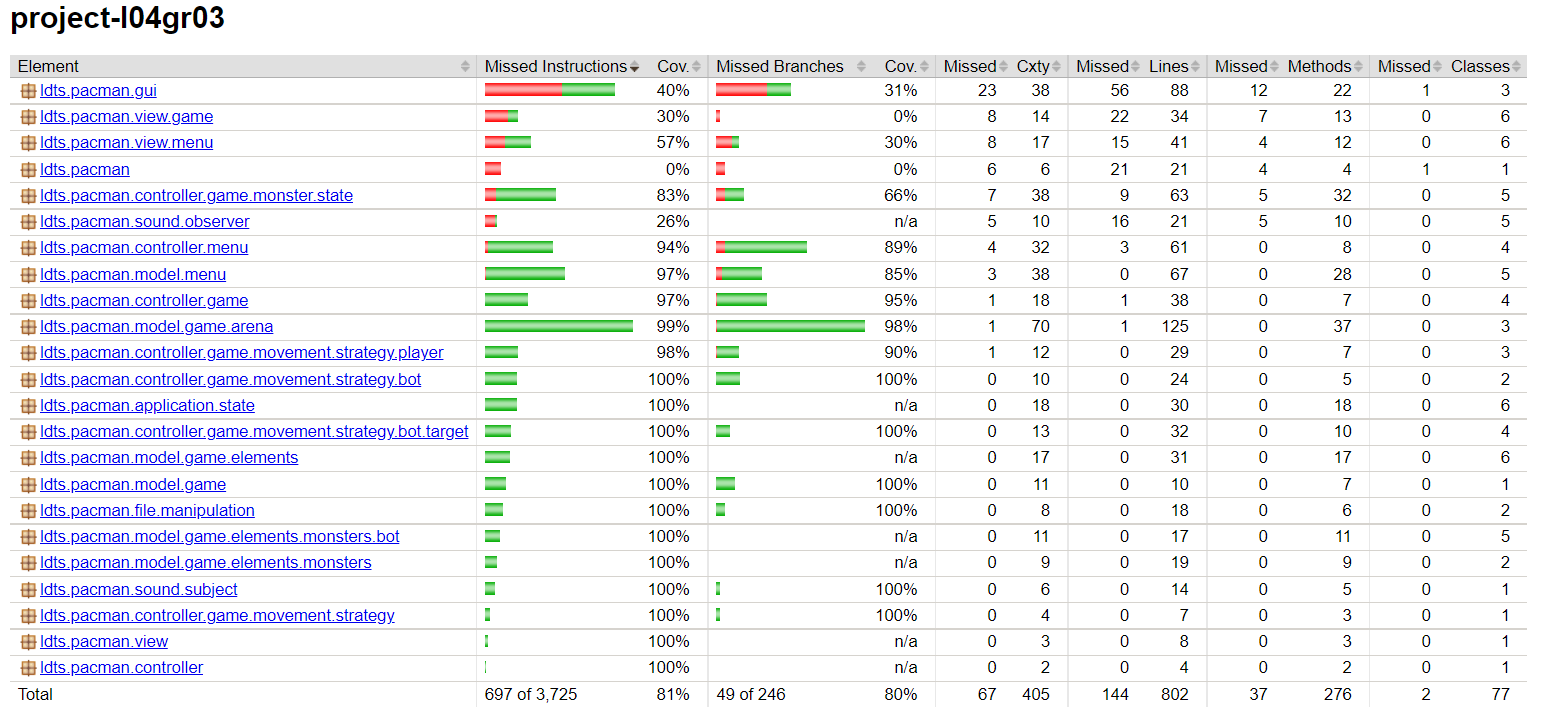
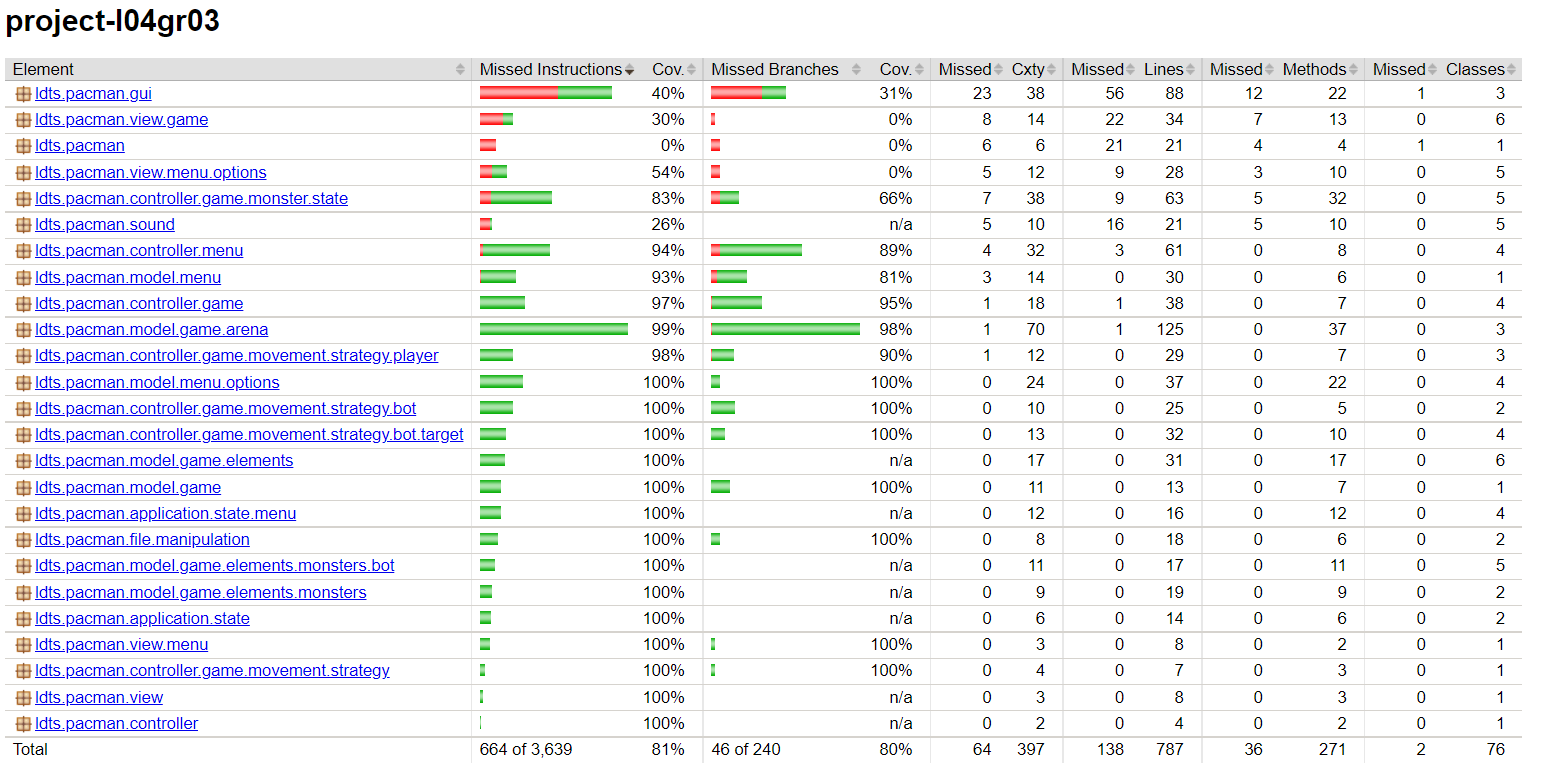
Made final adjustments to the report, updated test coverage

Changed region(s): [[0.0, 0.0, 0.9935, 0.9737]]

diff --git a/docs/README.md b/docs/README.md
@@ -272,13 +272,17 @@ We did not consider this a bad code smell, since it directly originates from the
 ### Coverage Report
 
 <p align="center" justify="center">
-  <img src="images/reports/PIP.png"  width="800"/>
+  <img src="images/reports/jacoco.png"  width="800"/>
+</p>
+
+<p align="center" justify="center">
+  <img src="images/reports/PIT.png"  width="800"/>
 </p>
 
 -[Mutation testing report](https://adriano-7.github.io/)
 
 ## SELF-EVALUATION
 
-- Adriano Machado: %
-- Félix Martins: %
-- Tomás Pereira: %
+- Adriano Machado: 35 % 
+- Félix Martins: 50 % 
+- Tomás Pereira: 15 % 
